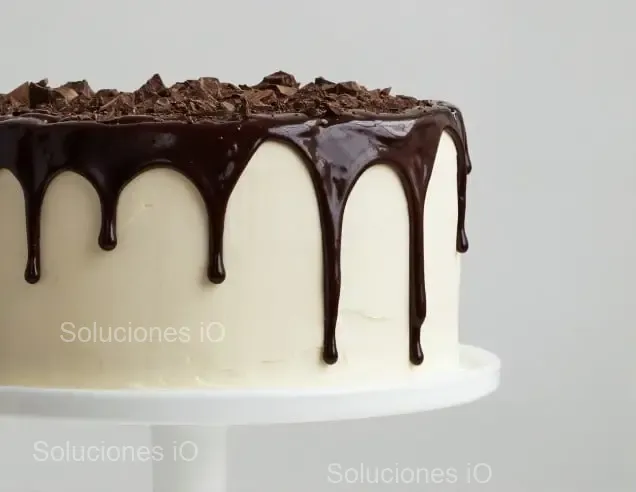
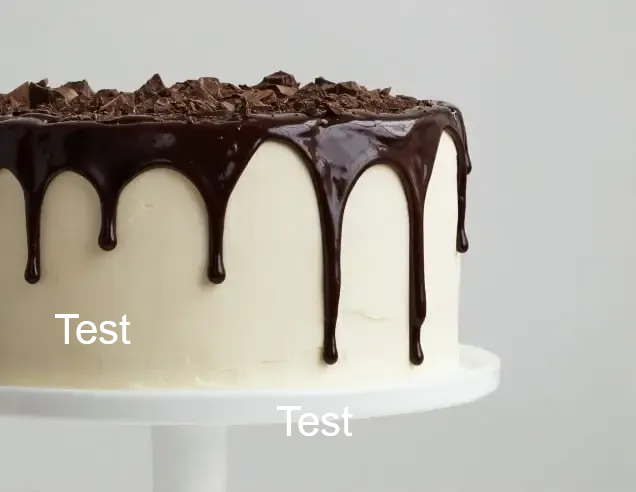
Start again

Changed region(s): [[0.0896, 0.6402, 0.2689, 0.7012], [0.4182, 0.8232, 0.5676, 0.8841]]

diff --git a/main.py b/main.py
@@ -1,0 +1,70 @@
+import os
+import random
+from tkinter import *
+from tkinter.filedialog import askopenfilename
+from PIL import Image, ImageDraw, ImageFont
+
+# ------------------------ WATERMARK FILE ------------------------------ #
+
+
+def watermark(file):
+    # Split filename and extension
+    filename, extension = file.split('.')
+
+    # Opening Image
+    img = Image.open(file).convert("RGBA")
+    txt = Image.new('RGBA', img.size, (255, 255, 255, 0))
+
+    # Creating draw object
+    draw = ImageDraw.Draw(img)
+
+    # Creating text and font object
+    text = "Test"
+    font = ImageFont.truetype('~/Library/Fonts/Arial.ttf', 27)
+
+    # Positioning Text
+    width, height = img.size
+
+    y = 200
+    for i in range(12):
+        x = random.randint(0, width-300)
+        y += random.randrange(0, int(height/8), 19)+random.randint(0, 100)
+        draw.text((x, y), text, fill=(255, 255, 255, 75), font=font)
+
+    # Combining both layers and saving new image
+    watermarked = Image.alpha_composite(img, txt)
+
+    # Saving the new image with a marked label
+    img.save(f"{filename}_marked.{extension}")
+
+
+# -------------------------- SELECT FILE ------------------------------ #
+
+
+def file_select():
+    file = askopenfilename(initialdir=os.getcwd, title="Select an Image", filetypes=[
+        ("PNG", "*.png"), ("JPG", "*.jpg"), ("JPEG", "*.jpeg"), ("WEBP", "*.webp")])
+    watermark(file)
+
+
+# ---------------------------- UI SETUP ------------------------------- #
+window = Tk()
+window.title("Image Watermaking")
+window.config(padx=50, pady=50)
+
+# canvas = Canvas(width=200, height=200)
+# canvas.grid(column=1, row=0)
+
+# Labels
+title_label = Label(
+    text="This App let's you select a file and add a Watermark to it.")
+title_label.grid(column=0, row=0, pady=20)
+
+file_select_label = Label(text="Please select file to upload: ")
+file_select_label.grid(column=0, row=1)
+
+# Buttons
+select_button = Button(text="Select", command=file_select)
+select_button.grid(column=1, row=1)
+
+window.mainloop()
